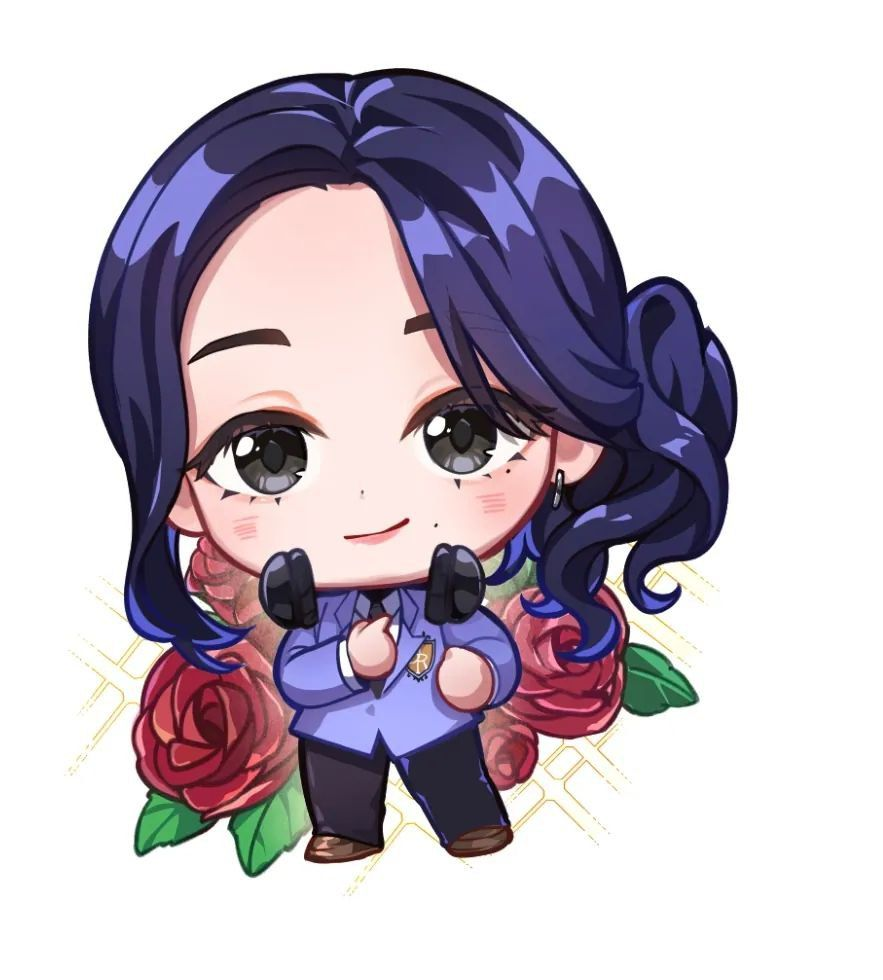
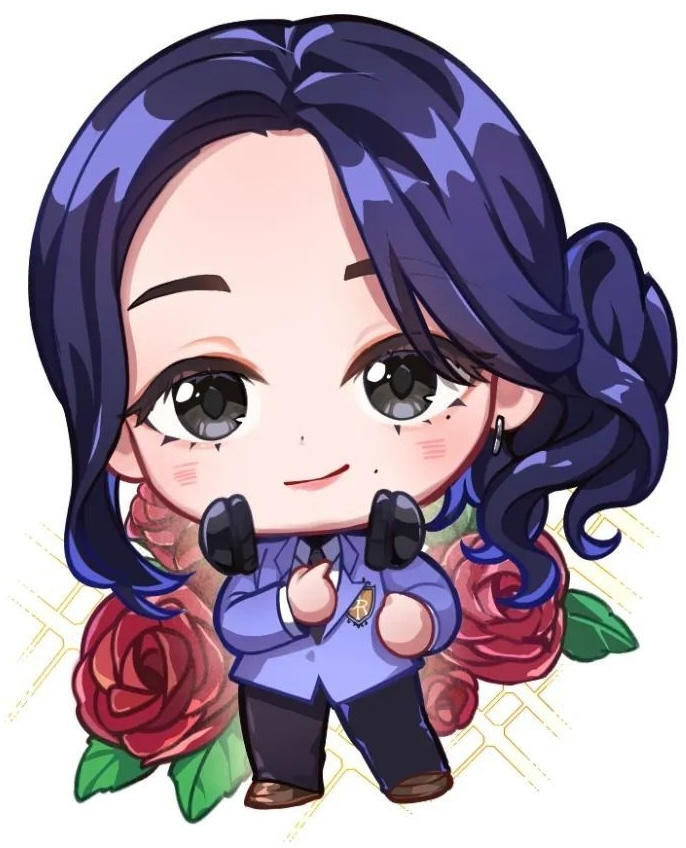
fix: misc

diff --git a/src/components/Book.tsx b/src/components/Book.tsx
@@ -95,13 +95,12 @@ const BookContent = () => {
       <div className="kawaii-star absolute bottom-40 left-20 text-lg">✨</div>
 
       {/* Chibi image in upper right */}
-      <div className="absolute top-8 right-8 z-10 hidden sm:flex flex-col items-center gap-3">
+      <div className="absolute top-8 right-4 z-10 hidden sm:flex flex-col items-center gap-3">
         <img
+          style={{ width: '100%' }}
           src="/assets/chibi.jpg"
           alt="Chibi Sohyun"
-          className="w-24 h-24 rounded-full shadow-lg border-4 border-white/80 hover:scale-105 transition-transform duration-300 cursor-pointer"
-          onClick={() => openLightbox("/assets/chibi.jpg", "Chibi Sohyun")}
-          title="Click to view larger"
+          className="w-24 h-24 rounded-full shadow-lg border-4 border-white/80 hover:scale-105 transition-transform duration-300"
         />
         <motion.button
           whileHover={{ scale: 1.05 }}
@@ -111,12 +110,12 @@ const BookContent = () => {
           title="Print all entries to PDF"
         >
           <Printer size={12} />
-          🖨 PDF
+          PDF
         </motion.button>
       </div>
 
       {/* Theme toggle in upper right - always visible */}
-      <div className="absolute top-8 right-8 z-10 flex sm:hidden flex-col items-center gap-3">
+      <div className="absolute top-8 right-4 z-10 flex sm:hidden flex-col items-center gap-3">
         <motion.button
           whileHover={{ scale: 1.05 }}
           whileTap={{ scale: 0.95 }}
@@ -124,13 +123,13 @@ const BookContent = () => {
           className="kawaii-button flex items-center gap-2 px-3 py-2 bg-gradient-to-r from-purple-400 to-indigo-400 text-white text-sm font-medium rounded-full transition-all shadow-lg"
           title={`Switch to ${isDark ? 'light' : 'dark'} mode`}
         >
-          {isDark ? <Sun size={14} /> : <Moon size={14} />}
+          {isDark ? <Sun size={12} /> : <Moon size={12} />}
           <span className="hidden sm:inline">{isDark ? '#lightmode' : '#darkmode'}</span>
         </motion.button>
       </div>
 
       {/* Theme toggle for desktop - positioned under PDF */}
-      <div className="absolute top-44 right-8 z-10 hidden sm:flex flex-col items-center gap-3">
+      <div className="absolute top-44 right-4 z-10 hidden sm:flex flex-col items-center gap-3">
         <motion.button
           whileHover={{ scale: 1.05 }}
           whileTap={{ scale: 0.95 }}
@@ -346,7 +345,8 @@ const BookContent = () => {
       />
 
       <footer className="text-center text-purple-600 dark:text-purple-300 text-xs sm:text-sm font-medium py-4 mt-auto">
-        Made with 💙 by <a target="_blank" href="http://sohyunsbiggestfan.com" className="underline hover:text-purple-800 dark:hover:text-purple-200 transition-colors">zautumn</a>
+        Made with 💙 by <a target="_blank" href="http://sohyunsbiggestfan.com" className="underline hover:text-purple-800 dark:hover:text-purple-200 transition-colors">zautumn</a>{' '}
+        and <a target="_blank" href="https://apollo.cafe/@joeywerepyre" className="underline hover:text-purple-800 dark:hover:text-purple-200 transition-colors">joeywerepyre</a>
       </footer>
     </div>
   )

diff --git a/src/components/BookPage.tsx b/src/components/BookPage.tsx
@@ -152,7 +152,7 @@ const BookPage: React.FC<BookPageProps> = ({ pageNumber, side }) => {
                     </TooltipTrigger>
                     <TooltipContent side="left" className="max-w-48">
                       <p className="text-xs">
-                        This is part {groupInfo.itemIndex + 1} of {groupInfo.totalItems} in a multi-item entry by <span className="font-semibold">{item.author}</span>
+                        Part {groupInfo.itemIndex + 1} of {groupInfo.totalItems} of <span className="font-semibold">{item.author}</span>'s entry
                       </p>
                     </TooltipContent>
                   </Tooltip>
